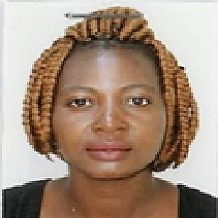
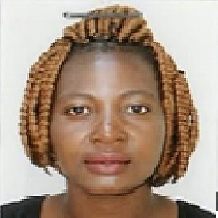
Modified database and made sure that all *.jpgs are 218x218px

diff --git a/server.js b/server.js
@@ -66,8 +66,8 @@ app.get('/insert', function(req, res){
 	}
 });
 
-app.listen(5500, function(){
-	console.log('listening on 5500');
+app.listen(5000, function(){
+	console.log('listening on 5000');
 });
 
 

diff --git a/Readme.md b/Readme.md
@@ -1,0 +1,10 @@
+This is project number 2 for Group 4
+The project was to create an animated website display nultiple student's pictures and raise funds for students in Malawi
+The page uses-embedded javascript and mySQL
+5 tables were created in my SQL
+![Alt text](./public/assets/images/mySQLWB.jpg)
+The website shows the name of the student, the financial goal (needed) and displays the amount of money donated towards the goal. The school term that donations are being collected for is also shown.
+A profile of each student and a means of donating money for tuition to assist the student is to be added later.
+
+This code is initiated on localhost:5000/
+$ node server.js
